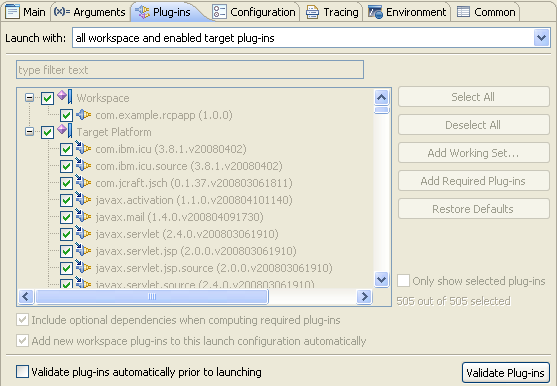
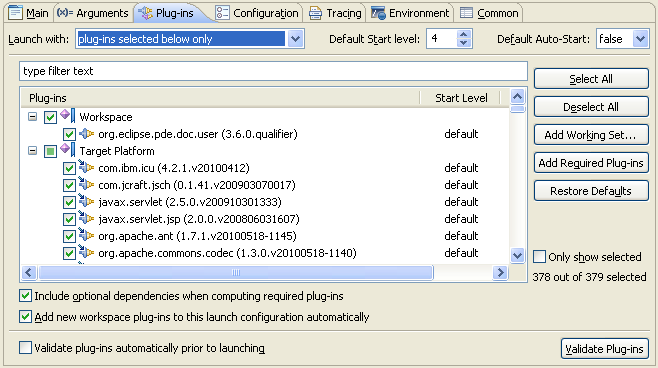
Update feature launching doc

diff --git a/bundles/org.eclipse.pde.doc.user/guide/tools/launchers/plugins.htm b/bundles/org.eclipse.pde.doc.user/guide/tools/launchers/plugins.htm
@@ -16,13 +16,14 @@
 <h2>Launch Options </h2>
 <p>The <strong>Launch with</strong> combo box allows you to configure the way the Eclipse Application is launched. The options are explained in more detail below.</p>
 <p>The <strong>all workspace and enabled external plug-ins</strong> option is the default setting. With this option, the runtime Eclipse application you are launching will be made up of all the workspace plug-ins and all the plug-ins that are explicitly checked on the <strong>Window &gt; Preferences... &gt; Plug-in Development &gt; Target Platform</strong> preference page. This option requires little maintenance because the list of plug-ins is maintained by PDE and updated prior to every launch as plug-ins are created or deleted in the workspace. This option is recommended when the <strong>Program to Run</strong> setting on the <a href="eclipse_main.htm">Main tab</a> of the launch configuration is set to the <strong>default product</strong> or <strong>default application</strong> of your target. </p>
-<p>The <strong>plug-ins selected below only</strong> option is typically used when you are testing an RCP application that uses a subset of the plug-ins from the workspace and target. This setting requires more maintenance than the other options, since you have to ensure that the list of selected plug-ins is up-to-date when you add or remove a plug-in from the workspace. There are several buttons available to help you select plug-ins, including an <strong>Add Required Plug-ins</strong> button.  The <strong>Add Required Plug-ins</strong> button should be used often to ensure the subset of plug-ins you have selected is complete. </p>
-<p> The <strong>features selected below</strong> option can be used to launch an RCP application by specifying features. It also allows to specify the location from where the feature plug-ins should be picked - Workspace or External (Target Platform). The plug-in resolution is first find location. Thus, if a plug-in marked for Workspace is not found there, then it is searched in External location and vice-versa. <strong>Add Plug-ins...</strong> button can be used to add individual plug-ins to the launch configuration. Pressing <strong>Select Required</strong> button will look for the dependent features of the presently selected features and add them also to the configuration. If there are many features, the <strong>Select Features...</strong> button can be used to find and select specific features. The feature-based configuration is launched with plug-ins resolved from the features, additional plug-ins and the plug-ins required by them.</p>
+<p>The <strong>plug-ins selected below only</strong> option is typically used when you are testing an RCP application that uses a subset of the plug-ins from the workspace and target. This setting requires more maintenance than the other options, since you have to ensure that the list of selected plug-ins is up-to-date when you add or remove a plug-in from the workspace. <strong>Add Required Plug-ins</strong> should be used to ensure the subset of plug-ins you have selected is complete.</p>
+<p>The <strong>features selected below</strong> option can be used to launch an RCP application by specifying features. It also allows to specify the location from where the feature plug-ins should be picked - Workspace or External (Target Platform). The plug-in resolution is first find location. Thus, if a plug-in marked for Workspace is not found there, then it is searched in External location and vice-versa. Select <strong>Add Plug-ins...</strong> to add individual plug-ins to the launch configuration. <strong>Select Required</strong> will look for the dependent features of the presently selected features and add them also to the configuration. If there are many features, <strong>Select Features...</strong> can be used to find and select specific features.</p>
+<p>Feature-based configurations launch with plug-ins resolved from the selected features and any additional plug-ins <em>as well as </em> all required plug-ins.  This means that a minimal set of features/plug-ins can be selected and still have a valid launch.</p>
 <p><img src="../../images/launchers/launcher_eclipse_features.png" alt="Plug-ins tab" ></p>
 <p>Please note that if a workspace plug-in has the same ID as a target plug-in, the workspace plug-in is used in place of its target counterpart. This behavior applies to all three plug-in selection options described above; however, you can override this option by choosing the third option, deselecting a workspace plug-in and selecting the target plug-in with the same ID. </p>
 
 <h2>Validate Plug-ins</h2>
-<p>The <strong>Validate Plug-ins</strong> functionality, which can be invoked via the button located at the bottom right corner of the <strong>Plug-ins tab</strong>, analyzes the selected set of plug-ins to find launching startup problems. For instance, missing dependencies, unsatisfied execution environments, incompatible platform filters are a few of the potential problems that may prevent your plug-in from running.</p>
+<p>Selecting <strong>Validate Plug-ins</strong> analyzes the selected set of plug-ins to find launching startup problems. For instance, missing dependencies, unsatisfied execution environments, incompatible platform filters are a few of the potential problems that may prevent your plug-in from running.</p>
 <p>By checking the <strong>Validate plug-ins automatically prior to launching</strong> option, PDE will run the <strong>Validate Plug-ins</strong> function prior to every launch. If problems are found, an error dialog will appear for you to examine and you can choose to either continue the launch without correcting the problems or cancel the launch to rectify the issues. Otherwise, if no problems are found, the launch proceeds as normal. </p>
 
 <p><img src="../../../images/ngrelr.png" alt="Related reference"></p>
